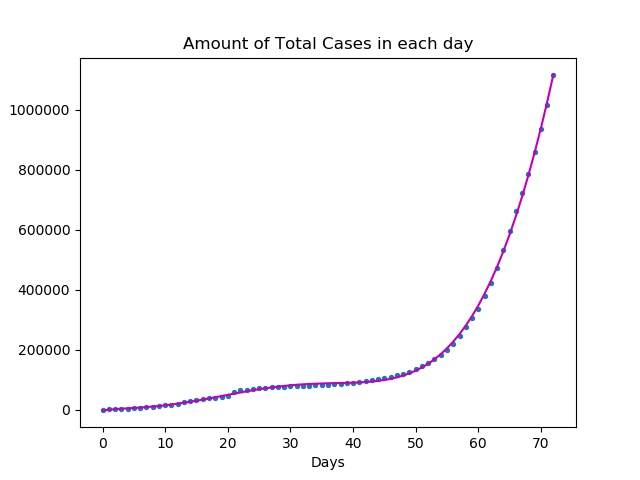
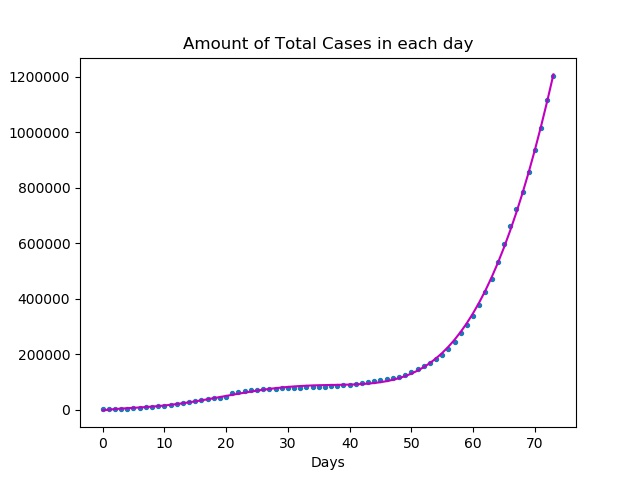
update 05/04/2020

diff --git a/README.md b/README.md
@@ -12,17 +12,17 @@ COVID-19, the disease that can result from the coronavirus worldwide new pandemi
 
 
 
-Our predictions for 04/04/2020 : 
+Our predictions for 05/04/2020: 
 
-The predictions for Total Cases today is: 1215813
+The predictions for Total Cases today is: 1309861
 
-The predictions for Total Active Cases today is: 895783
+The predictions for Total Active Cases today is: 962878
 
-The predictions for Total Cured Cases today is: 252278
+The predictions for Total Cured Cases today is: 272048
 
-The predictions for Total Deaths  today is: 65527
+The predictions for Total Deaths  today is: 72118
 
-The predictions for Total Critical Cases  today is: 44888
+The predictions for Total Critical Cases  today is: 47064
 
 
 
@@ -33,7 +33,8 @@ The predictions for Total Critical Cases  today is: 44888
 
 |    Date    | Predicted Total Cases | Real Total Cases | Predicted Total Recovered | Real Total Recovered | Predicted  Total Deaths | Real Total Deaths | Predicted Active Cases | Real Active Cases | Predicted  Critical Cases | Real Critical Cases |
 | :--------: | :-------------------: | :--------------: | :-----------------------: | :------------------: | :---------------------: | :---------------: | :--------------------: | :---------------: | :-----------------------: | :-----------------: |
-| 04/04/2020 |        1215813        |        ??        |          252278           |          ??          |          65527          |        ??         |         895783         |        ??         |           44888           |         ??          |
+| 05/04/2020 |        1309861        |        ??        |          272048           |          ??          |          72118          |        ??         |         962878         |        ??         |           47064           |         ??          |
+| 04/04/2020 |        1215813        |     1201483      |          252278           |        246467        |          65527          |       64691       |         895783         |      890325       |           44888           |        42288        |
 | 03/04/2020 |        1119168        |     1116662      |          232645           |        228589        |          58910          |       59162       |         825982         |      828911       |           42957           |        39391        |
 | 02/04/2020 |        1037752        |     1015065      |          212690           |        212018        |          52830          |       53167       |         770824         |      749880       |           40369           |        37698        |
 | 01/04/2020 |        959493         |      935197      |          195314           |        193989        |          47587          |       47192       |         715358         |      694016       |           37303           |        35478        |
